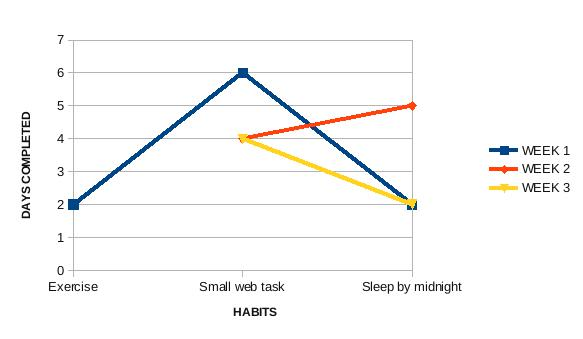
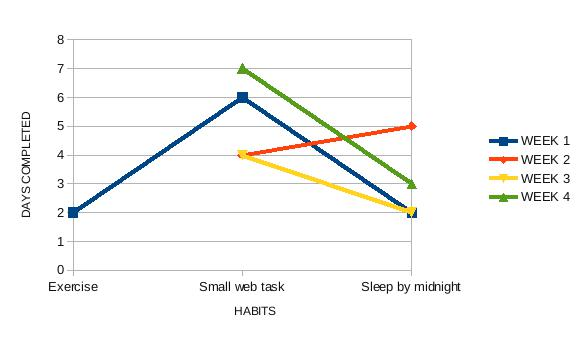
update to habit tracking

diff --git a/_posts/2014-06-29-habit-tracking-data.html b/_posts/2014-06-29-habit-tracking-data.html
@@ -1,7 +1,7 @@
 ---
 layout: post
 title: "Habit Tracking Data"
-date: July 8th, 2014
+date: July 20th, 2014
 permalink: /tracking
 categories: personal
 ---
@@ -196,5 +196,60 @@ categories: personal
         	<td></td>
         	<td ALIGN=CENTER><b>Total Percentage:</b></td>
         	<td ALIGN=CENTER>42.61%</td>
+    </tbody>
+</table></p>
+
+<h3>Week 4 -- July 13th, 2014 to July 19th, 2014</h3>
+
+<p><table border=1>
+    <thead>
+        <tr>
+            <th></th>
+            <th ALIGN=CENTER>7/13/14</th>
+            <th ALIGN=CENTER>7/14/14</th>
+            <th ALIGN=CENTER>7/15/14</th>
+            <th ALIGN=CENTER>7/16/14</th>
+            <th ALIGN=CENTER>7/17/14</th>
+            <th ALIGN=CENTER>7/18/14</th>
+            <th ALIGN=CENTER>7/19/14</th>
+            <th ALIGN=CENTER>WEEK 4</th>
+        </tr>
+    </thead>
+    
+    <tbody>
+            <tr>
+            <td ALIGN=CENTER>Small web task</td>
+            <td ALIGN=CENTER BGCOLOR="#00FF00">Y</td>
+            <td ALIGN=CENTER BGCOLOR="#00FF00">Y</td>
+            <td ALIGN=CENTER BGCOLOR="#00FF00">Y</td>
+            <td ALIGN=CENTER BGCOLOR="#00FF00">Y</td>
+            <td ALIGN=CENTER BGCOLOR="#00FF00">Y</td>
+            <td ALIGN=CENTER BGCOLOR="#00FF00">Y</td>
+            <td ALIGN=CENTER BGCOLOR="#00FF00">Y</td>
+            <td ALIGN=CENTER>7</td>
+        </tr>
+
+        <tr>
+            <td ALIGN=CENTER>Sleep by midnight</td>
+            <td ALIGN=CENTER BGCOLOR="#FF0000">N</td>
+            <td ALIGN=CENTER BGCOLOR="#00FF00">Y</td>
+            <td ALIGN=CENTER BGCOLOR="#00FF00">Y</td>
+            <td ALIGN=CENTER BGCOLOR="#00FF00">Y</td>
+            <td ALIGN=CENTER BGCOLOR="#FF0000">N</td>
+            <td ALIGN=CENTER BGCOLOR="#FF0000">N</td>
+            <td ALIGN=CENTER BGCOLOR="#FF0000">N</td>
+            <td ALIGN=CENTER>3</td>
+        </tr>
+
+        <tr>
+        	<td></td>
+        	<td></td>
+        	<td></td>
+        	<td></td>
+        	<td></td>
+        	<td></td>
+        	<td></td>
+        	<td ALIGN=CENTER><b>Total Percentage:</b></td>
+        	<td ALIGN=CENTER>71.43%</td>
     </tbody>
 </table></p>
